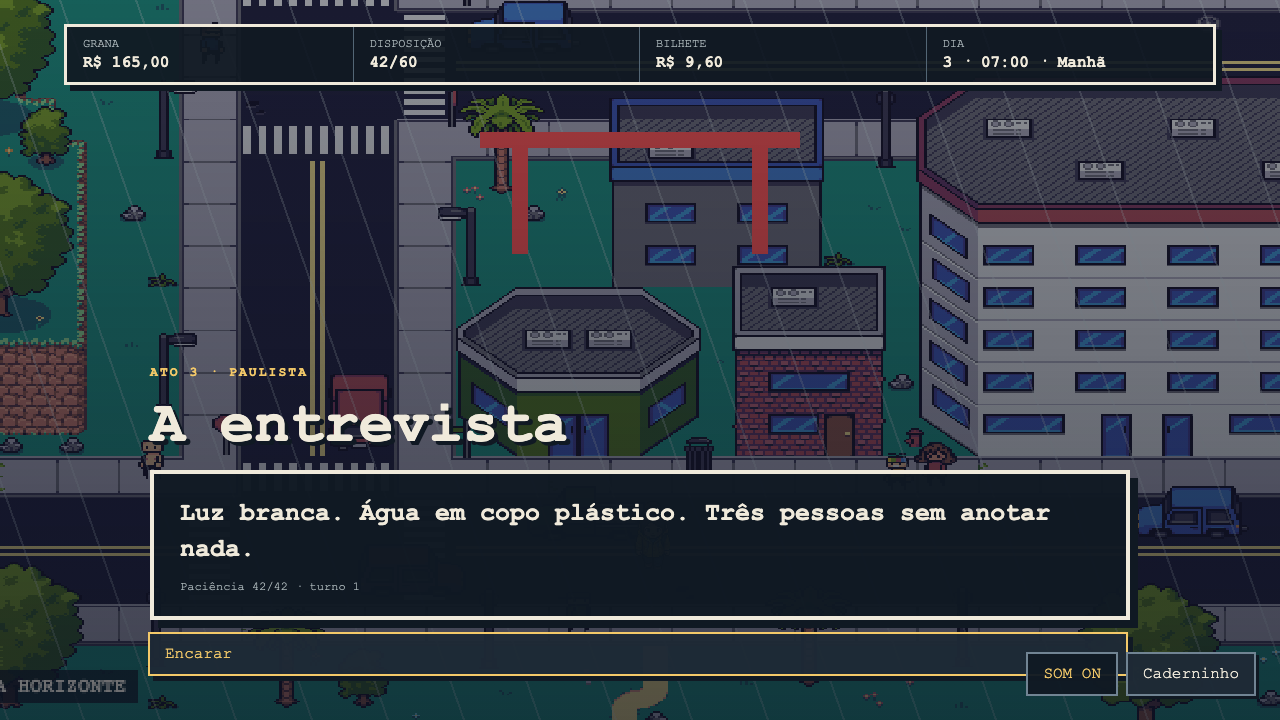
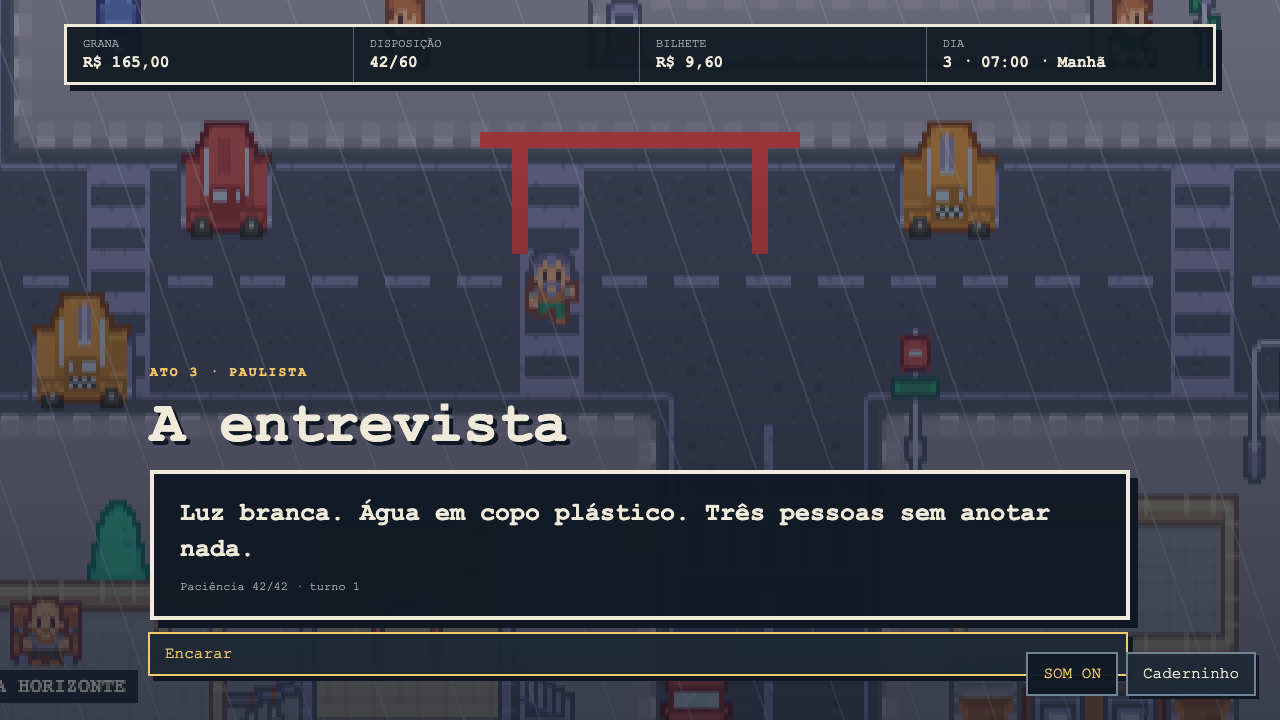
feat: unify city and character pixel art

diff --git a/src/engine/backdrop.ts b/src/engine/backdrop.ts
@@ -3,7 +3,7 @@ import Phaser from 'phaser'
 export interface WorldActor {
   readonly id: string
   readonly label: string
-  readonly kind: 'npc' | 'action'
+  readonly kind: 'npc'
 }
 export interface WorldExit {
   readonly actionId: string
@@ -61,16 +61,13 @@ export class WorldScene extends Phaser.Scene {
   }
   preload(): void {
     this.load.atlas('garoa', 'atlas.png', 'atlas.json')
-    this.load.image('fisherg-city', 'assets/fisherg-city/sMockup.png')
-    this.load.spritesheet('garoa-people-v2', 'assets/garoa-characters-v2/characters-sheet.png', {
-      frameWidth: 128,
-      frameHeight: 170,
-      endFrame: 71,
-    })
-    this.load.spritesheet('garoa-npcs-v3', 'assets/garoa-characters-v3/characters-sheet.png', {
-      frameWidth: 128,
-      frameHeight: 170,
-      endFrame: 71,
+    this.load.image('kenney-city', 'assets/kenney-rpg-urban/city-background.png')
+    this.load.spritesheet('kenney-people', 'assets/kenney-rpg-urban/Tilemap/tilemap.png', {
+      frameWidth: 16,
+      frameHeight: 16,
+      margin: 0,
+      spacing: 1,
+      endFrame: 485,
     })
   }
   create(): void {
@@ -103,9 +100,9 @@ export class WorldScene extends Phaser.Scene {
     this.createExits(bridge.presentation.exits)
     this.createActors(bridge.presentation.actors)
     this.player = this.physics.add
-      .sprite(MAP_WIDTH * TILE * 0.5, MAP_HEIGHT * TILE * 0.8, 'garoa-people-v2', 0)
-      .setScale(0.24)
-    this.player.setSize(42, 34).setOffset(43, 126).setCollideWorldBounds(true).setDepth(10)
+      .sprite(MAP_WIDTH * TILE * 0.5, MAP_HEIGHT * TILE * 0.8, 'kenney-people', 24)
+      .setScale(1.5)
+    this.player.setSize(10, 6).setOffset(3, 10).setCollideWorldBounds(true).setDepth(10)
     this.physics.add.collider(this.player, this.obstacles)
     this.physics.add.collider(this.player, this.actors)
     this.physics.add.overlap(this.player, this.exits, (_player, zone) => this.enterExit(zone))
@@ -158,13 +155,10 @@ export class WorldScene extends Phaser.Scene {
     actors.forEach((actor, index) => {
       const x = (index % 2 === 0 ? 18 : 6) * TILE
       const y = 12.1 * TILE
-      const sprite =
-        actor.kind === 'npc'
-          ? this.physics.add
-              .staticSprite(x, y, 'garoa-npcs-v3', npcFrame(actor.id))
-              .setScale(0.3)
-              .setDepth(8)
-          : this.physics.add.staticSprite(x, y, 'garoa', 'banca_jornal').setScale(1.5).setDepth(8)
+      const sprite = this.physics.add
+        .staticSprite(x, y, 'kenney-people', npcFrame(actor.id))
+        .setScale(1.5)
+        .setDepth(8)
       sprite.setData('actionId', actor.id)
       sprite.setData('label', actor.label)
       sprite.refreshBody()
@@ -325,7 +319,7 @@ function districtPalette(district: string): Palette {
 }
 function drawMap(scene: Phaser.Scene, palette: Palette, placeId: string, district: string): void {
   scene.add
-    .image(MAP_WIDTH * TILE * 0.5, MAP_HEIGHT * TILE * 0.5, 'fisherg-city')
+    .image(MAP_WIDTH * TILE * 0.5, MAP_HEIGHT * TILE * 0.5, 'kenney-city')
     .setDisplaySize(MAP_WIDTH * TILE, MAP_HEIGHT * TILE)
     .setDepth(0)
   scene.add
@@ -390,20 +384,20 @@ function drawLandmark(scene: Phaser.Scene, district: string): void {
   if (district === 'minhocao') scene.add.rectangle(384, 116, 768, 34, 0x485270, 0.88).setDepth(3)
 }
 function directionFrame(direction: 'down' | 'left' | 'right' | 'up', step: number): number {
-  return { down: 0, left: 3, right: 6, up: 9 }[direction] + step
+  return 23 + { left: 0, down: 1, up: 2, right: 3 }[direction] + step * 27
 }
 function npcFrame(actionId: string): number {
   const id = actionId.replace('talk:', '')
   const rows: Record<string, number> = {
-    ajudante: 0,
-    seu_jorge: 0,
-    dona_cida: 5,
-    yumi: 4,
-    tico: 3,
-    renan: 1,
+    ajudante: 4,
+    seu_jorge: 1,
+    dona_cida: 2,
+    yumi: 3,
+    tico: 4,
+    renan: 5,
     val: 2,
   }
-  return (rows[id] ?? 2) * 12
+  return 24 + (rows[id] ?? 5) * 81
 }
 
 export function mountBackdrop(parent: string): WorldController {

diff --git a/src/main.ts b/src/main.ts
@@ -164,11 +164,11 @@ function render(): void {
     placeName: content.places[state.place]?.name ?? state.place,
     district: state.district,
     actors: actions
-      .filter((item) => item.enabled && (item.group === 'people' || item.group === 'act'))
+      .filter((item) => item.enabled && item.group === 'people')
       .map((item) => ({
         id: item.id,
         label: item.label,
-        kind: item.group === 'people' ? ('npc' as const) : ('action' as const),
+        kind: 'npc' as const,
       })),
     exits: actions
       .filter((item) => item.enabled && item.group === 'move')

diff --git a/README.md b/README.md
@@ -63,7 +63,8 @@ Phaser / Playwright / bot headless
 - `src/content/`: mundo e história como dados validados por Zod.
 - `src/engine/`: apresentação Phaser, sem regras de jogo.
 - `tools/art/`: personagens e elementos paulistanos gerados de forma determinística.
-- `public/assets/fisherg-city/`: tiles urbanos CC0 usados como base dos mapas.
+- `public/assets/kenney-rpg-urban/`: cidade e personagens CC0 na mesma grade visual.
+- `public/assets/fisherg-city/`: base urbana CC0 anterior, mantida como referência.
 - `tools/playtest/`: bot headless e playthrough visual.
 - `docs/screenshots/`: capturas reais produzidas pelo playthrough.
 
@@ -97,7 +98,7 @@ GAROA é um projeto autoral, atualmente sem licença para redistribuição.
 
 ## Créditos de arte
 
-Os mapas urbanos reutilizam e adaptam o pack **12×12 City Tiles — Top Down**, de
-FisherG, distribuído em CC0. A cópia da licença original acompanha os arquivos em
-`public/assets/fisherg-city/LICENSE.txt`. Chuva, paleta, sinalização, personagens e
+Cidade, veículos e personagens agora usam o **RPG Urban Pack**, de Kenney,
+distribuído em CC0. O pack FisherG anterior também permanece preservado como
+referência CC0. As licenças acompanham os arquivos; chuva, paleta, sinalização e
 elementos específicos de São Paulo são adaptações do projeto GAROA.

diff --git a/docs/ART_ASSETS.md b/docs/ART_ASSETS.md
@@ -31,3 +31,17 @@ os NPCs genéricos por seis silhuetas urbanas mais legíveis: trabalhador da
 construção, profissional de escritório, artista, entregador de bicicleta,
 estudante e trabalhadora da saúde. Ela também foi gerada especificamente para o
 GAROA, removida de fundo cromático e normalizada para a grade 12×6 de 128×170 px.
+
+## Kenney — RPG Urban Pack
+
+- Origem: https://kenney.nl/assets/rpg-urban-pack
+- Autor: Kenney
+- Licença: Creative Commons Zero (CC0 1.0).
+- Arquivos usados: uma região sem material promocional de `Sample.png` e a folha
+  `Tilemap/tilemap.png`, preservados com a licença original em
+  `public/assets/kenney-rpg-urban/`.
+
+O pacote passa a fornecer uma única grade visual de 16×16 para cidade, player,
+NPCs, veículos e mobiliário. Pedestres decorativos e personagens interativos
+compartilham proporção, contorno e paleta; somente os interativos recebem rótulo,
+colisão e diálogo.
